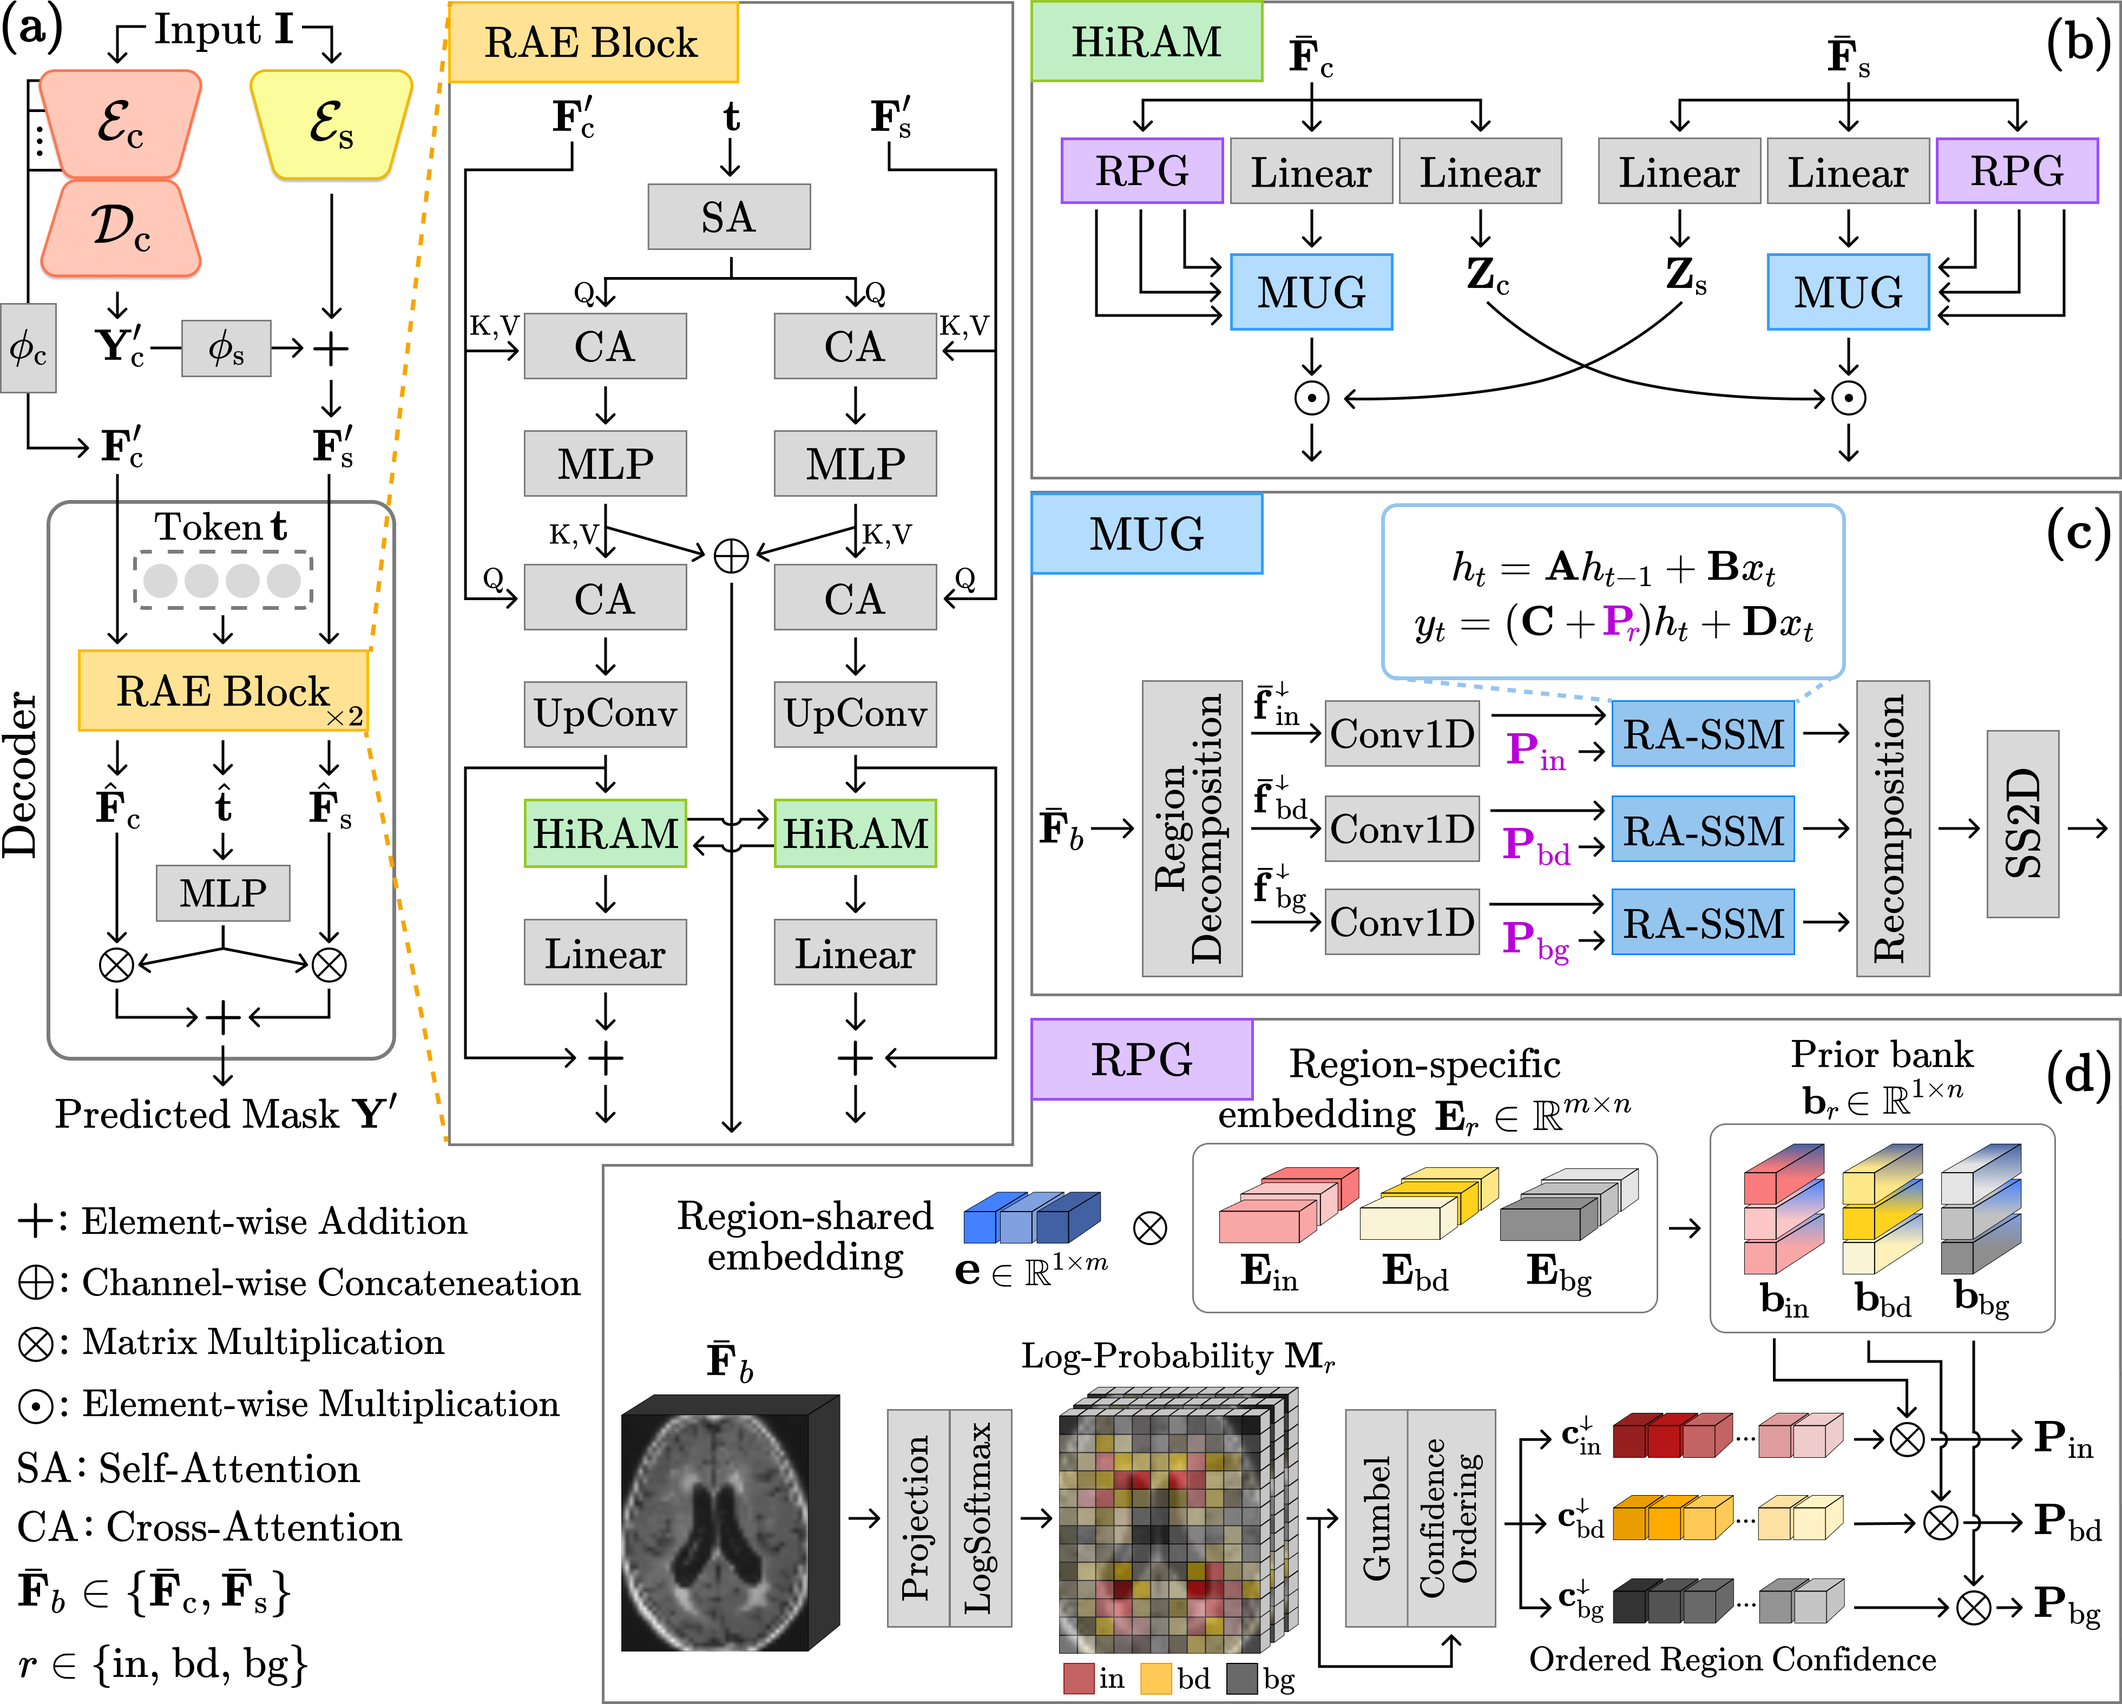
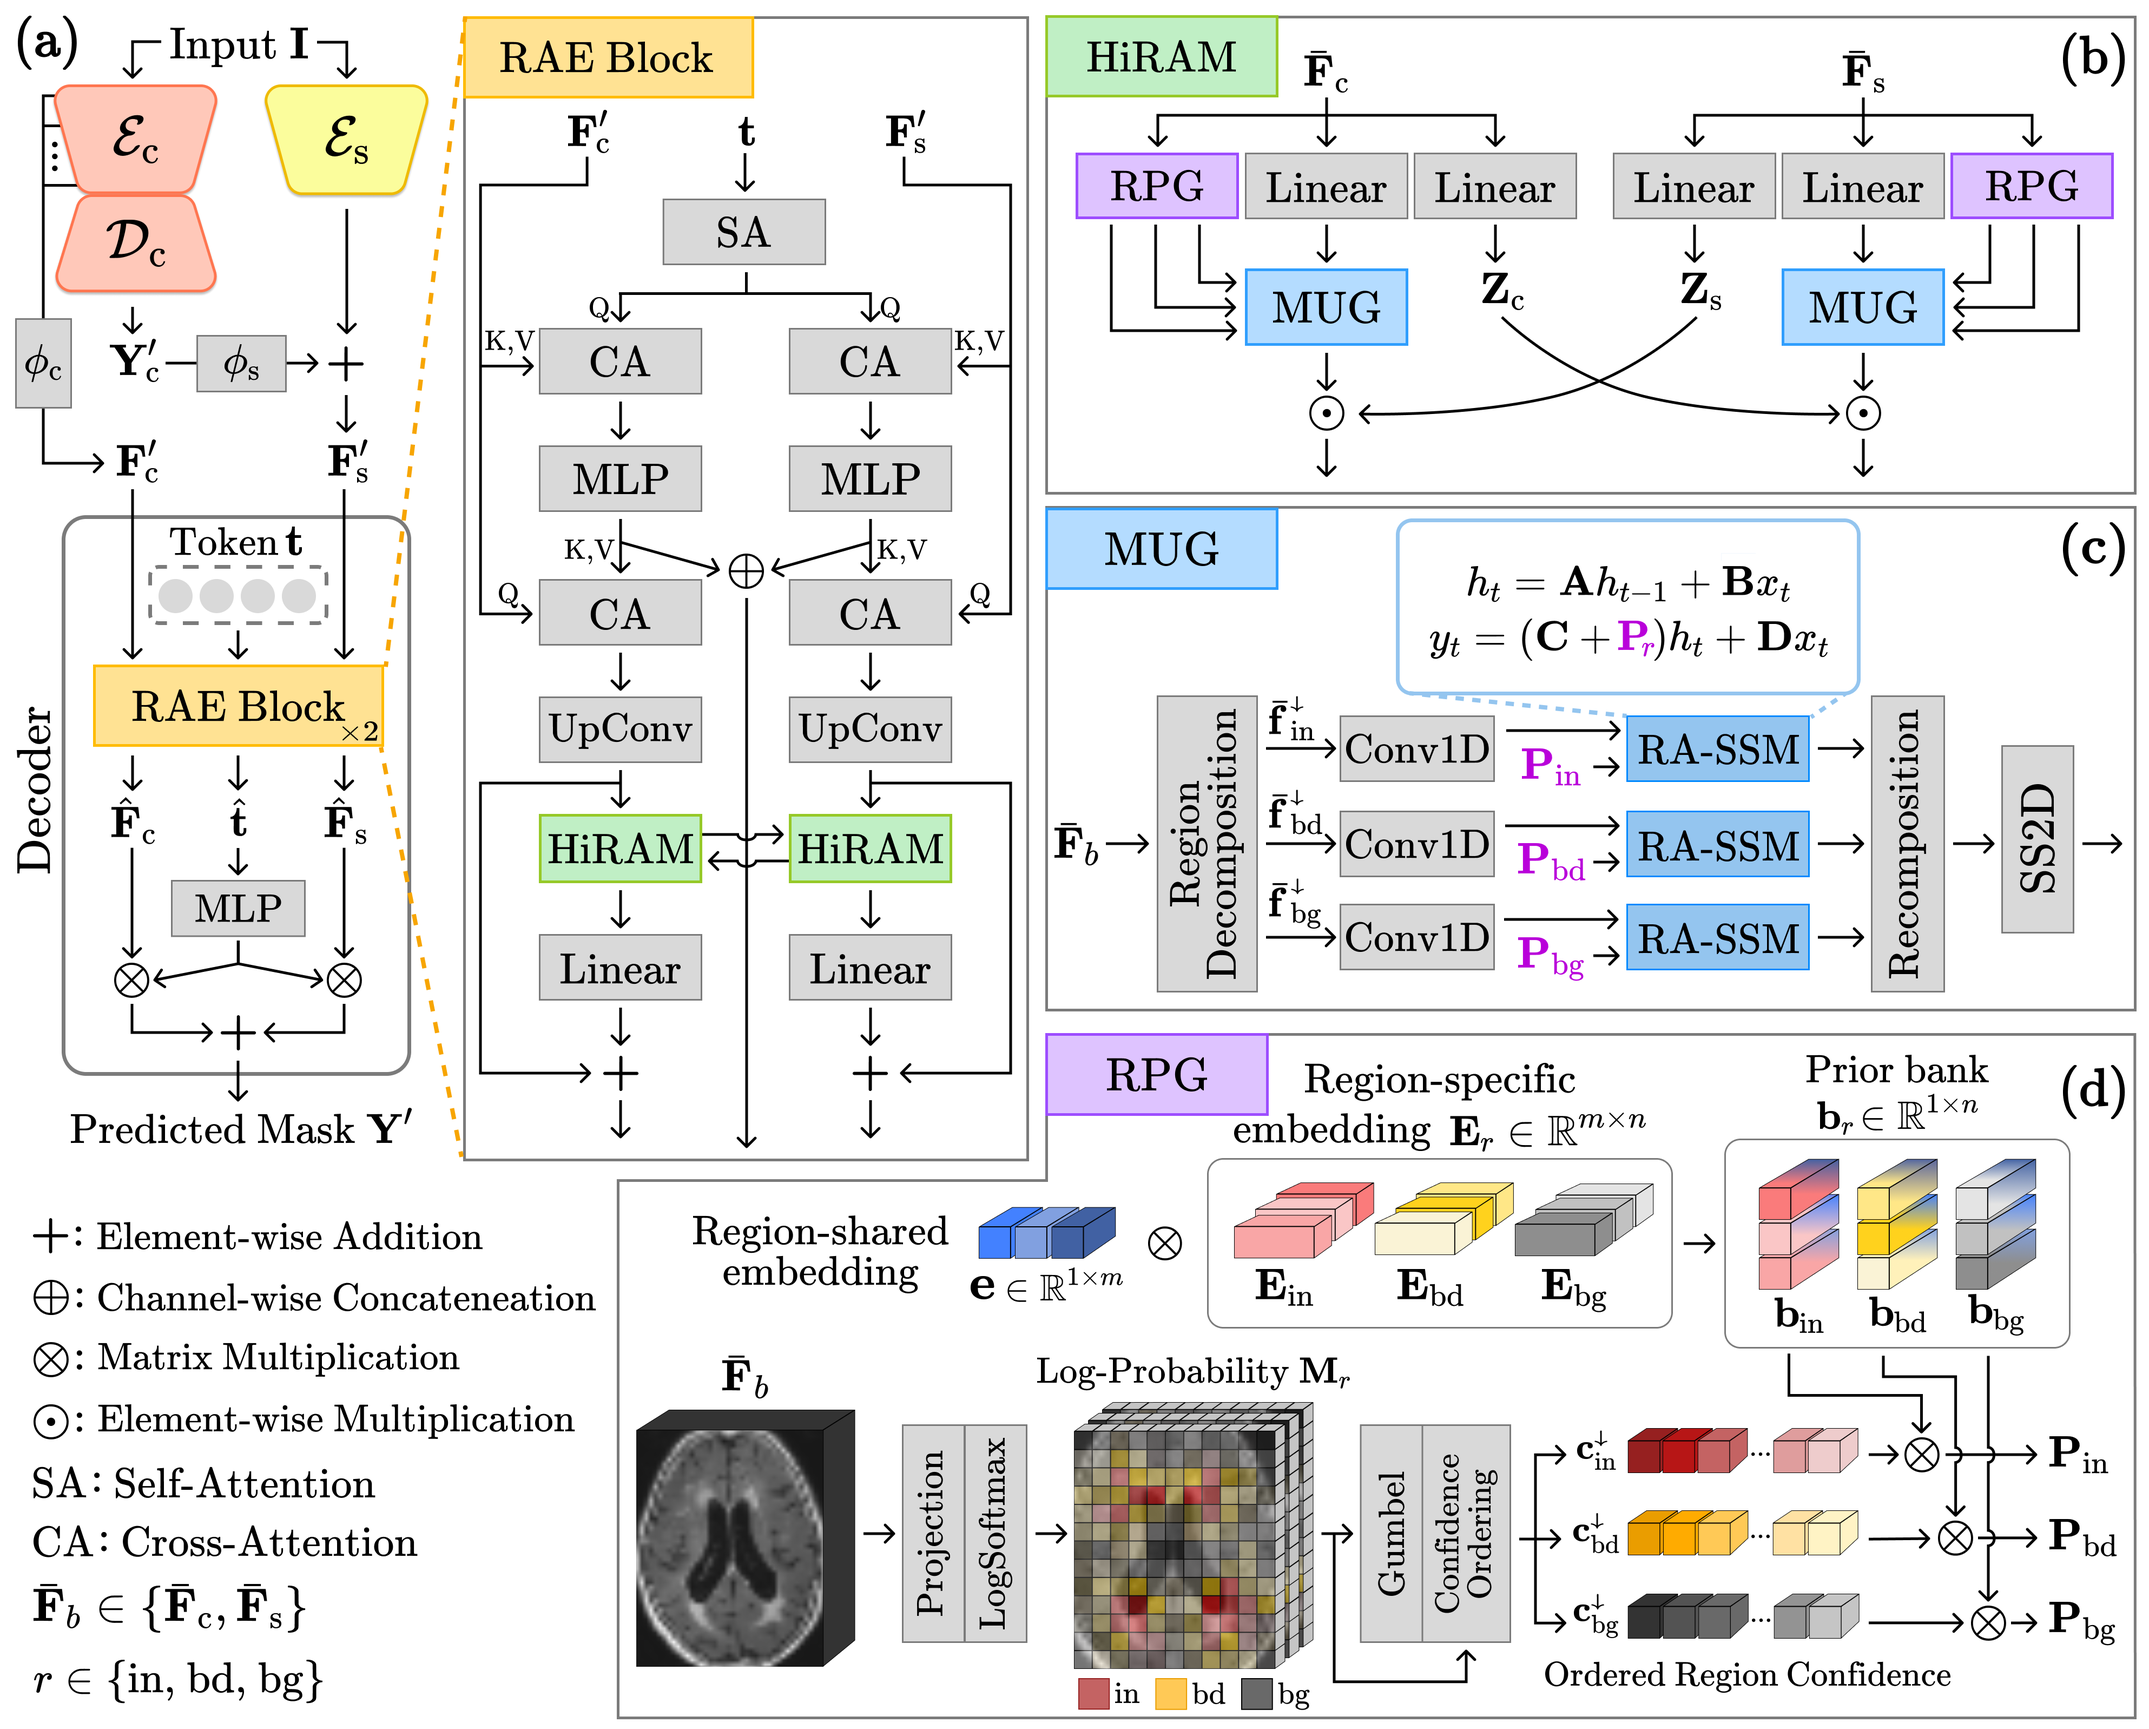
Update figure

Changed region(s): [[0.0, 0.0, 1.0, 1.0], [0.4045, 0.0622, 0.4356, 0.0934]]

diff --git a/HiRAM_inference.py b/HiRAM_inference.py
@@ -34,9 +34,6 @@ from nnunetv2.utilities.plans_handling.plans_handler import PlansManager
 from nnunetv2.utilities.utils import create_lists_from_splitted_dataset_folder
 
 import sys, os
-# current_dir = os.path.dirname(os.path.abspath(__file__))
-# project_root = os.path.abspath(os.path.join(current_dir, "..", "..", "nnunetv2"))
-# sys.path.insert(0, project_root)
 from nnunetv2.utilities.get_network_from_plans import get_network_from_plans_withSAM
 
 
